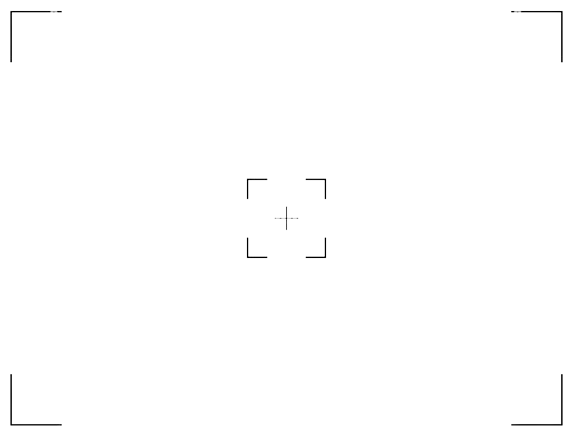
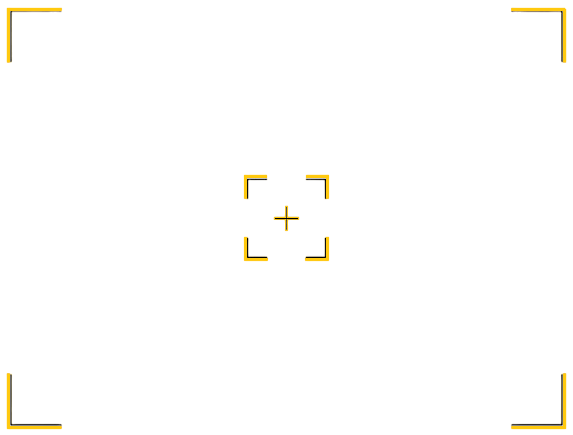
Added countdown feature
Flashing effect is still pending

diff --git a/tello_mediapipe.py b/tello_mediapipe.py
@@ -32,7 +32,10 @@ weights = 'v9_c_best.pt'
 device = 0 # cuda device, i.e. 0 or 0,1,2,3 or cpu
 imgsz=(640, 640)
 model,names,_=load_model(weights,device,imgsz)
-window = pygame.display.set_mode((960,720))
+
+screen_width = 960
+screen_height = 720
+window = pygame.display.set_mode((screen_width, screen_height))
 
 
 mp_drawing = mp.solutions.drawing_utils
@@ -41,7 +44,8 @@ face_mesh = mp_face_mesh.FaceMesh()
 mp_hands = mp.solutions.hands
 hands = mp_hands.Hands()
 
-with open('embeddings.pkl', 'rb') as f:
+# with open('embeddings.pkl', 'rb') as f:
+with open('core_embeddings.pkl', 'rb') as f:
     FaceEmbeddings = loaded_embeddings_dict = pickle.load(f)
 
 FaceEncodings= FaceEmbeddings["FaceEmbeddings_new"]
@@ -140,6 +144,24 @@ original_frame = None
 start_time = time.time()
 person = '-'
 is_authenticated = True
+picture_counter = -1
+countdown_started_time = None
+
+flashing = False
+# Create a surface for the flashing effect
+flash_surface = pygame.Surface((screen_width, screen_height))
+flash_surface.fill((255, 255, 255))  # White flash
+flash_surface.set_alpha(0)  # Start with fully transparent
+
+# Set up flashing parameters
+flash_duration = 2.0  # Total duration of the flash effect in seconds
+half_flash_duration = flash_duration / 2
+time_elapsed = 0
+
+def draw_outlined_text(image, text, position, font, font_scale, color, thickness, outline_color, outline_thickness):
+    image = cv2.putText(image, text, position, font, font_scale, outline_color, outline_thickness, lineType=cv2.LINE_AA)
+    image = cv2.putText(image, text, position, font, font_scale, color, thickness, lineType=cv2.LINE_AA)
+    return image
 
 
 def inference(im,model,names,line_thickness):
@@ -172,8 +194,6 @@ def inference(im,model,names,line_thickness):
                                     agnostic=False,
                                     max_det=1000)
 
-
-
     # Process predictions 
     det = pred[0]
     annotator = Annotator(np.ascontiguousarray(im0s), line_width=line_thickness, example=str(names))
@@ -200,16 +220,33 @@ def perform_face_recognition(original_frame):
     global is_authenticated
     try:
         current_time = time.time()  # Get the current time
-        elapsed_time = current_time - start_time  # Calculate elapsed time
         
+        elapsed_time = current_time - start_time  # Calculate elapsed time
+        # print(elapsed_time)
         if elapsed_time >= 10:  # Check if 10 seconds have passed
-            print('AUTHENTICATION IN PROGRESS--------------------------------------------------------')
+            # print('AUTHENTICATION IN PROGRESS--------------------------------------------------------')
             is_authenticated, person = identify_user(original_frame,FaceNames,FaceEncodings)
             start_time = time.time()  # Reset the start time
-        
     except:
         pass
-
+    
+def picture_countdown_completed():
+    global picture_counter
+    global countdown_started_time
+    if picture_counter == -1 or countdown_started_time is None:
+        return False, False # Not finished, there is no countdown
+    current_time = time.time()
+    if current_time - countdown_started_time >= 1:
+        countdown_started_time = time.time()
+        picture_counter -= 1
+        if picture_counter <= 0:
+            picture_counter = -1
+            countdown_started_time = None
+            return True, True # Finished, there is a countdown
+        return False, True # Not finished, there is a countdown
+    
+    return False, False # Not planned condition
+    
 def get_frame():
     global signal_takeoff
     global signal_up 
@@ -226,6 +263,16 @@ def get_frame():
     global original_frame
     global person
     global is_authenticated
+    global picture_counter
+    global countdown_started_time
+    global flashing
+    # Create a surface for the flashing effect
+    global flash_surface
+    # Set up flashing parameters
+    global flash_duration 
+    global half_flash_duration
+    global time_elapsed
+    
     
     flying = False
     # cap =  cv2.VideoCapture(0)
@@ -250,9 +297,12 @@ def get_frame():
                      pygame.image.load(f'{IMAGE_DIR}land.png').convert_alpha(), 
                      pygame.image.load(f'{IMAGE_DIR}forward.png').convert_alpha(),
                      ]
+    frame_image = pygame.image.load(f'{IMAGE_DIR}frame.png')
+    frame_image = pygame.transform.scale(frame_image, (screen_width, screen_height))
     button_rects = []
     original_buttons = []
-    button_positions = [(820,510), (885, 575), (820, 640), (755, 575), (820, 575), (350,640), (415,640), (480, 640), (545, 640)]
+    button_positions = [(800,500), (865, 565), (800, 630), (735, 565), (800, 565), (350,640), (415,640), (480, 640), (545, 640)]
+    frame_position = (0,0)
     
     for i in range(len(button_images)):
         button_images[i] = pygame.transform.scale(button_images[i], (65, 65))
@@ -296,12 +346,12 @@ def get_frame():
                 frame_center_x = frame_w // 2
             
                 # Draw the center line of the frame
-                cv2.line(image, (frame_center_x, 0), (frame_center_x, frame_h), (255, 0, 0), 2)
-                cv2.line(image, (frame_center_x + 120, 0), (frame_center_x + 120, frame_h), (0, 0, 255), 2)
-                cv2.line(image, (frame_center_x - 120, 0), (frame_center_x - 120, frame_h), (0, 0, 255), 2)
+                # cv2.line(image, (frame_center_x, 0), (frame_center_x, frame_h), (255, 0, 0), 2)
+                # cv2.line(image, (frame_center_x + 120, 0), (frame_center_x + 120, frame_h), (0, 0, 255), 2)
+                # cv2.line(image, (frame_center_x - 120, 0), (frame_center_x - 120, frame_h), (0, 0, 255), 2)
     
                 # Draw the center point of the face
-                cv2.circle(image, (face_center_x, face_center_y), 5, (0, 0, 255), -1)
+                # cv2.circle(image, (face_center_x, face_center_y), 5, (0, 0, 255), -1)
     
                 # Calculate the x distance from the face center to the frame's center line
                 x_distance = face_center_x - frame_center_x
@@ -324,20 +374,48 @@ def get_frame():
                     # cv2.putText(frame, distance2move, (10, 50), cv2.FONT_HERSHEY_SIMPLEX, 1, (0, 0, 0), 2)
     
                 # Visualize the x distance
-                cv2.line(image, (face_center_x, face_center_y), (frame_center_x, face_center_y), (250, 255, 0), 2)
+                # cv2.line(image, (face_center_x, face_center_y), (frame_center_x, face_center_y), (250, 255, 0), 2)
                 
                 
                 battery = my_drone.get_battery()
                 # battery = 100
                 
                 image=cv2.resize(image,(960,720))
-                image = cv2.putText(image, f'Battery: {str(battery)} %', (760, 50), cv2.FONT_HERSHEY_SIMPLEX,  0.8, (255, 255, 255), 1, cv2.LINE_AA)
-                image = cv2.putText(image, f'Command: {cmd}', (15, 650), cv2.FONT_HERSHEY_SIMPLEX,  0.8, (255, 255, 255), 1, cv2.LINE_AA)
-                image = cv2.putText(image, f'Person: {person}', (15, 680), cv2.FONT_HERSHEY_SIMPLEX,  0.8, (255, 255, 255), 1, cv2.LINE_AA)
+                image = draw_outlined_text(image, f'Battery: {str(battery)} %', (760, 50), cv2.FONT_HERSHEY_SIMPLEX, 0.8, (0, 0, 0), 2, (255, 255, 255), 5)
+                image = draw_outlined_text(image, f'Command: {cmd}', (30, 650), cv2.FONT_HERSHEY_SIMPLEX, 0.8, (0, 0, 0), 2, (255, 255, 255), 5)
+                image = draw_outlined_text(image, f'Person: {person}', (30, 680), cv2.FONT_HERSHEY_SIMPLEX, 0.8, (0, 0, 0), 2, (255, 255, 255), 5)
+                
+                countdown_finished, countdown = picture_countdown_completed()
+                if countdown and picture_counter >= 0:
+                    image = draw_outlined_text(image, f'{int(picture_counter)}', (int(screen_width/2)-50, int(screen_height/2)-50), cv2.FONT_HERSHEY_SIMPLEX, 5, (0, 0, 0), 2, (255, 255, 255), 8)
+                    if countdown_finished:
+                        flashing = countdown_finished
+                
+                if flashing:
+                    last_flash_time = time.time()
+                    # Calculate time elapsed since start of flash
+                    dt = clock.tick(60) / 1000.0
+                    time_elapsed += dt
+            
+                    if time_elapsed <= half_flash_duration:
+                        # Increase opacity
+                        alpha = int((time_elapsed / half_flash_duration) * 255)
+                    elif time_elapsed <= flash_duration:
+                        # Decrease opacity
+                        alpha = int(((flash_duration - time_elapsed) / half_flash_duration) * 255)
+                    else:
+                        flash_completed = True
+                        alpha = 0
+            
+                    flash_surface.set_alpha(alpha)
+                    window.blit(flash_surface, (0, 0))
+                        
                 frame_surface = pygame.surfarray.make_surface(image.swapaxes(0, 1))
+                
                 
                 # Blit and display
                 window.blit(frame_surface, (0, 0))
+                window.blit(frame_image, (0, 0))
                 
                 current_time_pygame = pygame.time.get_ticks()
                 
@@ -387,7 +465,10 @@ def get_frame():
                             cmd = "Move RIGHT"
                         elif class_action == 'picture':
                             frame_RGB=cv2.cvtColor(original_frame, cv2.COLOR_BGR2RGB)
-                            cv2.imwrite(f'./pictures/image_{i}_{current_time}.jpg', frame_RGB)
+                            # cv2.imwrite(f'./pictures/image_{i}_{current_time}.jpg', frame_RGB)
+                            picture_counter = 4
+                            countdown_started_time = time.time()
+                            print("TAKING PICTURE")
                             i += 1
                             signal_picture = True
                             cmd = "Take PICTURE"
@@ -425,7 +506,10 @@ def get_frame():
                              cmd = "Move RIGHT"
                          elif event.key == pygame.K_p:
                              frame_RGB=cv2.cvtColor(frame, cv2.COLOR_BGR2RGB)
-                             cv2.imwrite(f'./pictures/image_{i}_{current_time}.jpg', frame_RGB)
+                             picture_counter = 4
+                             countdown_started_time = time.time()
+                             print("TAKING PICTURE")
+                             # cv2.imwrite(f'./pictures/image_{i}_{current_time}.jpg', frame_RGB)
                              i += 1
                              signal_picture = True
                              cmd = "Take PICTURE"
@@ -467,10 +551,13 @@ def get_frame():
                                      cmd = "Move RIGHT"
                                  elif i == 4:
                                      frame_RGB=cv2.cvtColor(frame, cv2.COLOR_BGR2RGB)
-                                     cv2.imwrite(f'./pictures/image_{i}_{current_time}.jpg', frame_RGB)
+                                     picture_counter = 4
+                                     countdown_started_time = time.time()
+                                     # cv2.imwrite(f'./pictures/image_{i}_{current_time}.jpg', frame_RGB)
                                      i += 1
                                      signal_picture = True
                                      cmd = "Take PICTURE"
+                                     print("TAKING PICTURE")
                                  elif i == 6:
                                      signal_takeoff = True
                                      cmd = "TAKE-OFF"
@@ -484,8 +571,8 @@ def get_frame():
                                  elif i == 8:
                                      signal_forward=True
                                      cmd = "FORWARD"
-
-    
+                    
+                    
     pygame.quit()
 
 def control_drone():
@@ -549,6 +636,7 @@ def control_drone():
                 my_drone.land()
                 signal_land = False
                 cmd = "_"
+
             if is_rotating_clockwise:
                 print('Drone is rotating clock-wise')
                 my_drone.rotate_clockwise(20)
